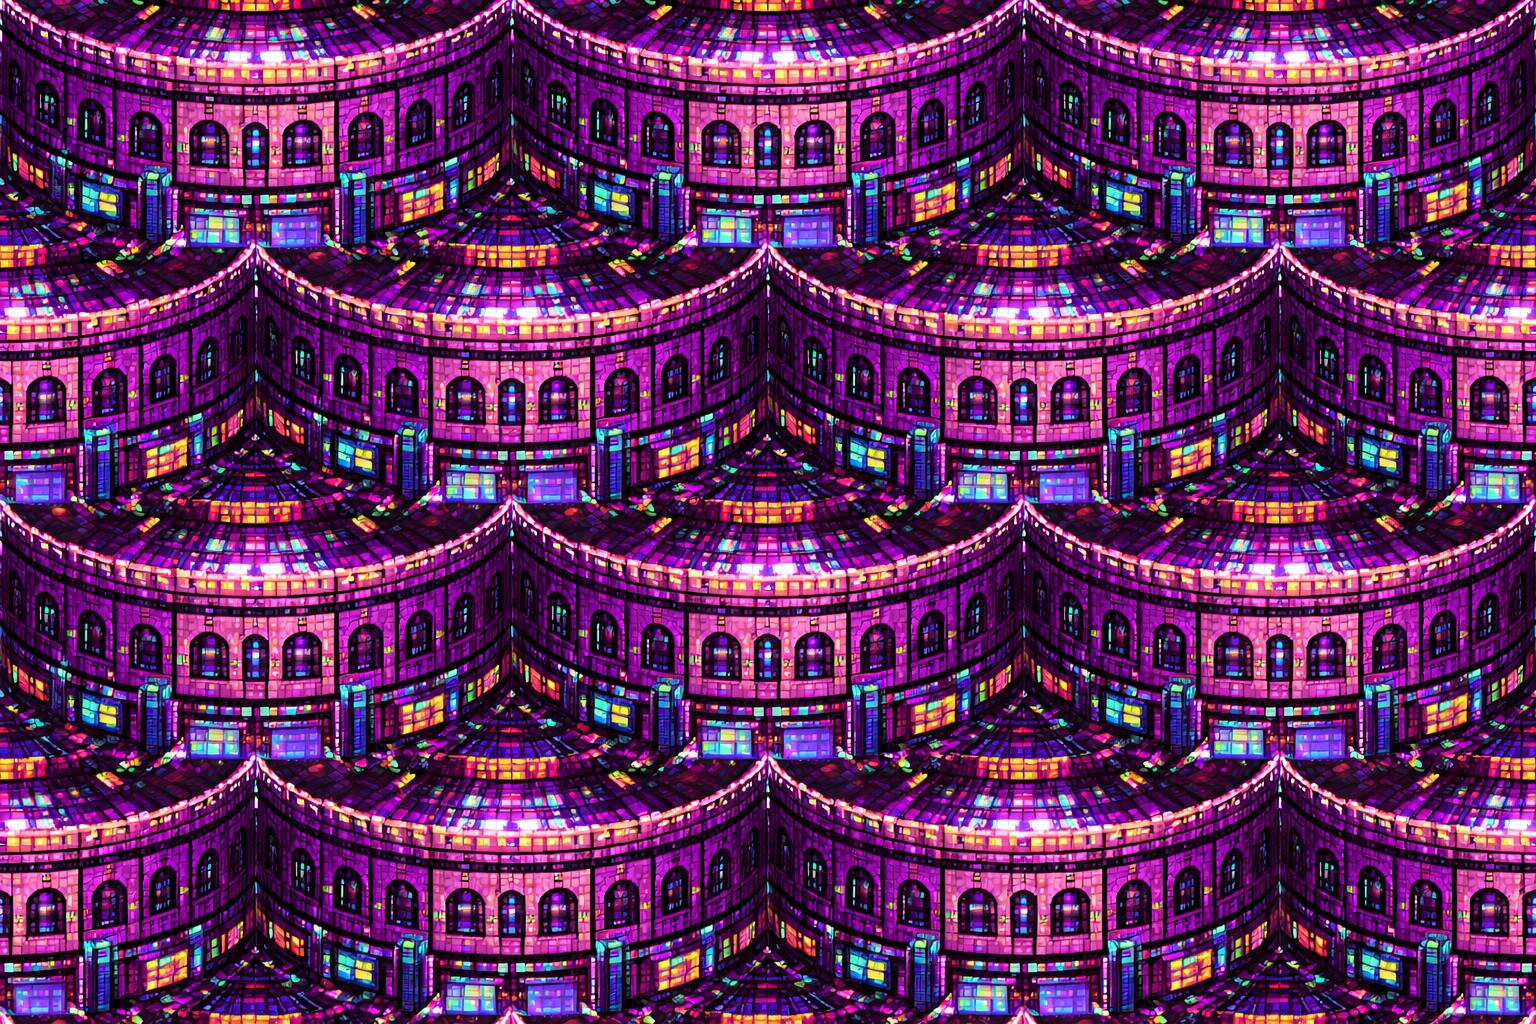
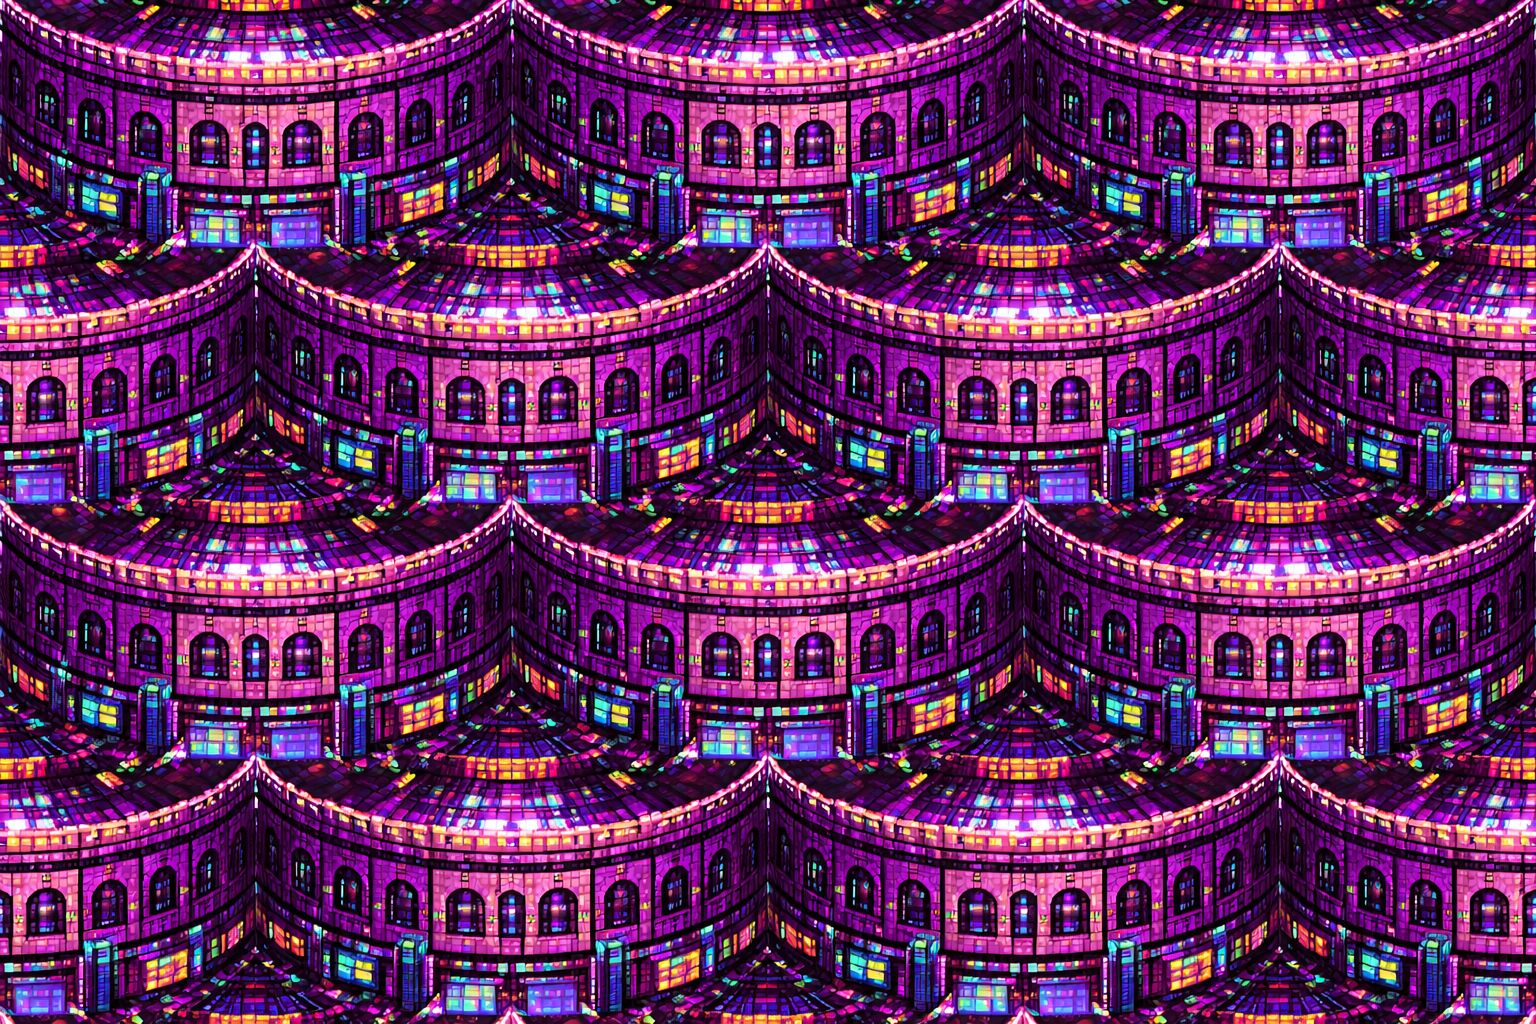
clawosseum-ui: swap mid-wall texture + raise stands height + keep sprites above layers

diff --git a/src/game.css b/src/game.css
@@ -391,7 +391,8 @@
   bottom: 34px;
   width: 56px;
   height: 56px;
-  z-index: 3;
+  /* Keep sprites above all arena background layers (floor/walls/stands/sky) */
+  z-index: 30;
   transform: translateX(-50%);
   transition: transform 140ms ease, filter 140ms ease;
 }
@@ -549,7 +550,7 @@
   height: 210px;
   transform: skewX(-8deg);
   pointer-events: none;
-  z-index: 1;
+  z-index: 0;
 
   /* Sky is not a tessellation: do NOT repeat */
   background-image: url('/arena-sky.jpg');
@@ -612,16 +613,16 @@
   right: -12%;
 
   /* walls sit directly above the floor */
-  bottom: 94px;
-  height: 74px;
+  bottom: 98px;
+  height: 86px;
 
   transform: skewX(-8deg);
   pointer-events: none;
-  z-index: 4;
+  z-index: 2;
 
   background-image: url('/arena-walls.jpg');
   background-repeat: repeat-x;
-  background-size: auto 74px;
+  background-size: auto 86px;
   background-position: center bottom;
 
   opacity: 0.92;
@@ -635,8 +636,8 @@
   right: -10%;
 
   /* sits directly above the wall layer */
-  top: 136px;
-  height: 78px;
+  top: 132px;
+  height: 108px;
 
   transform: skewX(-8deg);
   pointer-events: none;
@@ -644,7 +645,7 @@
 
   background-image: url('/arena-stands.jpg');
   background-repeat: repeat-x;
-  background-size: auto 78px;
+  background-size: auto 108px;
   background-position: center top;
 
   filter: saturate(1.0) contrast(1.06);
